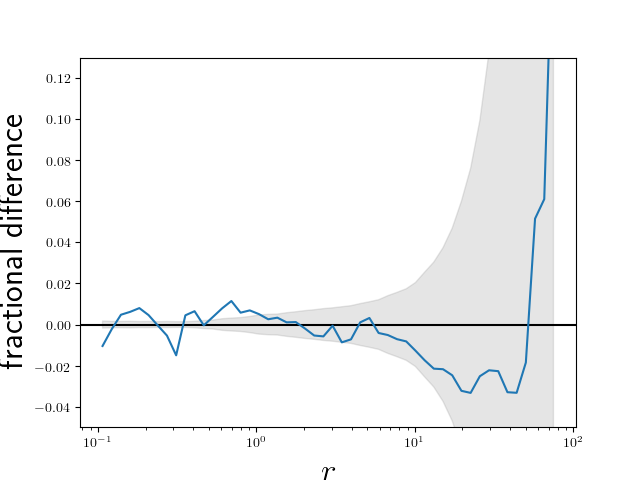
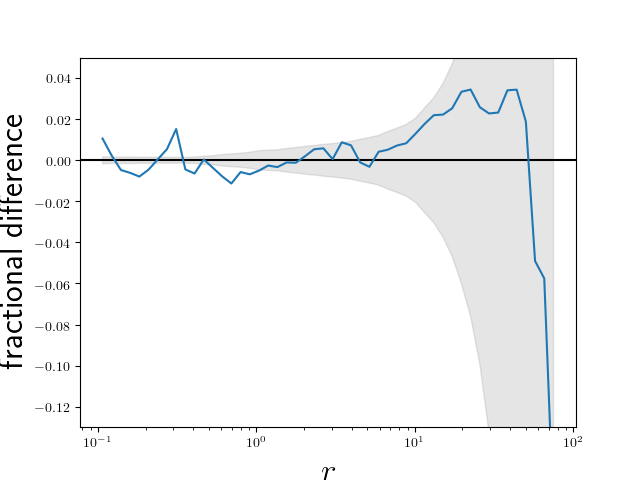
Clean code and add example file.

diff --git a/xihm_exclusion.py b/xihm_exclusion.py
@@ -4,84 +4,10 @@ import fastcorr
 from colossus.halo.mass_so import M_to_R
 from scipy.special import sici
 from scipy.special import erfc
-from matplotlib import pyplot as plt
-from matplotlib.pyplot import rcParams
-rcParams['text.usetex'] = True
-
-
-########################################################
-########################################################
-########################################################
-########################################################
-########################################################
-# Set cosmology
-from colossus.cosmology import cosmology
-from classy import Class
-
-
-# First set up cosmology to get power spectrum
-Omega_b = 0.049
-Omega_m = 0.318
-Omega_cdm = Omega_m - Omega_b
-h = 0.6704 #H0/100
-sigma8 = 0.835
-n_s = 0.962
-
-# Fox cosmology for CLASS
-foxclass = {'output': 'mPk',
-            'non linear': 'halofit',
-            'Omega_b': Omega_b,
-            'Omega_cdm': Omega_cdm,
-            'h': h,
-            'sigma8': sigma8,
-            'n_s': n_s,
-            'P_k_max_1/Mpc': 1000,
-            'z_max_pk': 10.  # Default value is 10
-                }
-
-classcosmo = Class()
-classcosmo.set(foxclass)
-classcosmo.compute()
-
-# Fox cosmology for Colossus
-foxcolossus = {'flat': True,
-               'H0': h * 100 ,
-               'Om0': Omega_m,
-               'Ob0': Omega_b,
-               'sigma8': sigma8,
-               'ns': n_s}
-
-cosmology.addCosmology('fox', foxcolossus)
-cosmology.setCosmology('fox')
-cosmo = cosmology.setCosmology('fox')
-
-Om = Omega_m
-
-
-# Power spectrum
-k = np.logspace(-4, 2, num=1000)  # 1/Mpc
-z = 0.
-Plin = np.array([classcosmo.pk_lin(ki, z) for ki in k])
-Pnl = np.array([classcosmo.pk(ki, z) for ki in k])
-# NOTE: You will need to convert these to h/Mpc and (Mpc/h)^3
-# to use in the toolkit. To do this you would do:
-k /= foxclass['h']
-Plin *= foxclass['h'] ** 3
-Pnl *= foxclass['h'] ** 3
-rhocrit = 2.77536627e+11
-rhom = Om * rhocrit
-
-
-# End of set cosmology
-########################################################
-########################################################
-########################################################
-########################################################
-########################################################
 
 
 # Functions
-def xihm_model(r, rt, m, c, beta, bias, ma, ca, mb, cb, ximm):
+def xihm_model(r, rt, m, c, beta, bias, ma, ca, mb, cb, ximm, Om):
     # Get xi1h
     xi1h = 1. + cluster_toolkit.xi.xi_nfw_at_R(r, 10**m, c, Om)
     xi1h *= theta_errfunc(r, rt, beta)
@@ -96,6 +22,10 @@ def xihm_model(r, rt, m, c, beta, bias, ma, ca, mb, cb, ximm):
     xi = xi1h + xi2h + C
 
     return xi
+
+
+def theta_errfunc(r, rt, beta):
+    return 0.5 * erfc((r-rt)/beta/np.sqrt(2.))
 
 
 def re(r1, r2, scheme):
@@ -155,57 +85,3 @@ def utconvthetae(r, rt, mass1, mass2, conc2):
     #exit()
 
     return integral
-
-
-def theta_errfunc(r, rt, beta):
-    return 0.5 * erfc((r-rt)/beta/np.sqrt(2.))
-
-
-
-#############################################################
-#############################################################
-#############################################################
-#############################################################
-#############################################################
-#############################################################
-
-
-# Read xihm data
-down=10
-xihm = np.loadtxt('data/xihm1_3e12_5e12_z0.0_down10')
-covxihm = np.loadtxt('data/covxihm1_3e12_5e12_z0.0_down10')
-r = np.loadtxt('data/r')
-
-# Get 2halo term
-#xilin = fastcorr.calc_corr(r, k, Plin, N=500000, h=1e-4)
-xinl = fastcorr.calc_corr(r, k, Pnl, N=500000, h=1e-4)
-xi2h = xinl
-
-
-rt = 1.780
-m = 12.63
-c = 10.50
-beta = 0.2538
-bias = 0.8836
-ma = 12.39
-ca = 0.0444
-mb = 13.17
-cb = 1.239
-
-model = xihm_model(r, rt, m, c, beta, bias, ma, ca, mb, cb, xi2h)
-
-plt.errorbar(r, r * r * xihm, yerr=r * r * np.sqrt(covxihm.diagonal()), marker='o', linewidth=0, markersize=3, elinewidth=1, capsize=2, label=r'data', zorder=1)
-plt.loglog(r, r * r * model, linewidth=2, label=r'best fit', zorder=2)
-plt.xlabel(r'$r$', fontsize=24)
-plt.ylabel(r'$r^2 \xi_{hm}$', fontsize=24)
-plt.legend()
-plt.savefig('figs/xihm.png')
-plt.clf()
-
-plt.axhline(0., color='black')
-plt.semilogx(r, model/xihm - 1.)
-plt.fill_between(r, -np.sqrt(covxihm.diagonal())/xihm, np.sqrt(covxihm.diagonal())/xihm, color='grey',alpha=0.2, label=r'data', zorder=1)
-plt.ylim(-0.05, 0.13)
-plt.xlabel(r'$r$', fontsize=24)
-plt.ylabel(r'fractional difference', fontsize=24)
-plt.savefig('figs/fracdif_xihm.png')

diff --git a/example.py b/example.py
@@ -1,0 +1,126 @@
+import numpy as np
+import xihm_exclusion
+import fastcorr
+from matplotlib import pyplot as plt
+from matplotlib.pyplot import rcParams
+rcParams['text.usetex'] = True
+
+
+# Set cosmology
+from colossus.cosmology import cosmology
+from classy import Class
+
+
+# First set up cosmology to get power spectrum
+Omega_b = 0.049
+Omega_m = 0.318
+Omega_cdm = Omega_m - Omega_b
+h = 0.6704 #H0/100
+sigma8 = 0.835
+n_s = 0.962
+
+# Fox cosmology for CLASS
+foxclass = {'output': 'mPk',
+            'non linear': 'halofit',
+            'Omega_b': Omega_b,
+            'Omega_cdm': Omega_cdm,
+            'h': h,
+            'sigma8': sigma8,
+            'n_s': n_s,
+            'P_k_max_1/Mpc': 1000,
+            'z_max_pk': 10.  # Default value is 10
+                }
+
+classcosmo = Class()
+classcosmo.set(foxclass)
+classcosmo.compute()
+
+# Fox cosmology for Colossus
+foxcolossus = {'flat': True,
+               'H0': h * 100 ,
+               'Om0': Omega_m,
+               'Ob0': Omega_b,
+               'sigma8': sigma8,
+               'ns': n_s}
+
+cosmology.addCosmology('fox', foxcolossus)
+cosmology.setCosmology('fox')
+cosmo = cosmology.setCosmology('fox')
+
+Om = Omega_m
+
+
+# Power spectrum
+k = np.logspace(-4, 2, num=1000)  # 1/Mpc
+z = 0.
+Plin = np.array([classcosmo.pk_lin(ki, z) for ki in k])
+Pnl = np.array([classcosmo.pk(ki, z) for ki in k])
+# NOTE: You will need to convert these to h/Mpc and (Mpc/h)^3
+# to use in the toolkit. To do this you would do:
+k /= foxclass['h']
+Plin *= foxclass['h'] ** 3
+Pnl *= foxclass['h'] ** 3
+# End of set cosmology
+
+
+# Read xihm data
+################# Mbin 3e12-5e12 Msun/h #################
+xihm = np.loadtxt('data/xihm1_3e12_5e12_z0.0_down10')
+covxihm = np.loadtxt('data/covxihm1_3e12_5e12_z0.0_down10')
+r = np.loadtxt('data/r')
+
+# Parameters
+rt = 1.780
+m = 12.63
+c = 10.50
+beta = 0.2538
+bias = 0.8836
+ma = 12.39
+ca = 0.0444
+mb = 13.17
+cb = 1.239
+
+'''
+################# Mbin 2e14-5e14 Msun/h #################
+xihm = np.loadtxt('data/xihm1_2e14_5e14_z0.0_down10')
+covxihm = np.loadtxt('data/covxihm1_2e14_5e14_z0.0_down10')
+r = np.loadtxt('data/r')
+
+# Parameters
+rt = 1.717
+m = 14.43
+c = 6.658
+beta = 0.4966
+bias = 2.762
+ma = 14.439
+ca = 0.1210
+mb = 12.51
+cb = 0.0318
+'''
+
+# Get 2halo term
+# xilin = fastcorr.calc_corr(r, k, Plin, N=500000, h=1e-4)
+xinl = fastcorr.calc_corr(r, k, Pnl, N=500000, h=1e-4)
+xi2h = xinl
+
+
+# Get model
+model = xihm_exclusion.xihm_model(r, rt, m, c, beta, bias, ma, ca, mb, cb, xi2h, Om)
+
+
+# Plot against data
+plt.errorbar(r, r * r * xihm, yerr=r * r * np.sqrt(covxihm.diagonal()), marker='o', linewidth=0, markersize=3, elinewidth=1, capsize=2, label=r'data', zorder=1)
+plt.loglog(r, r * r * model, linewidth=2, label=r'best fit', zorder=2)
+plt.xlabel(r'$r$', fontsize=24)
+plt.ylabel(r'$r^2 \xi_{hm}$', fontsize=24)
+plt.legend()
+plt.savefig('figs/xihm.png')
+plt.clf()
+
+plt.axhline(0., color='black')
+plt.semilogx(r, xihm/model - 1.)
+plt.fill_between(r, -np.sqrt(covxihm.diagonal())/xihm, np.sqrt(covxihm.diagonal())/xihm, color='grey',alpha=0.2, label=r'data', zorder=1)
+plt.ylim(-0.13, 0.05)
+plt.xlabel(r'$r$', fontsize=24)
+plt.ylabel(r'fractional difference', fontsize=24)
+plt.savefig('figs/fracdif_xihm.png')
